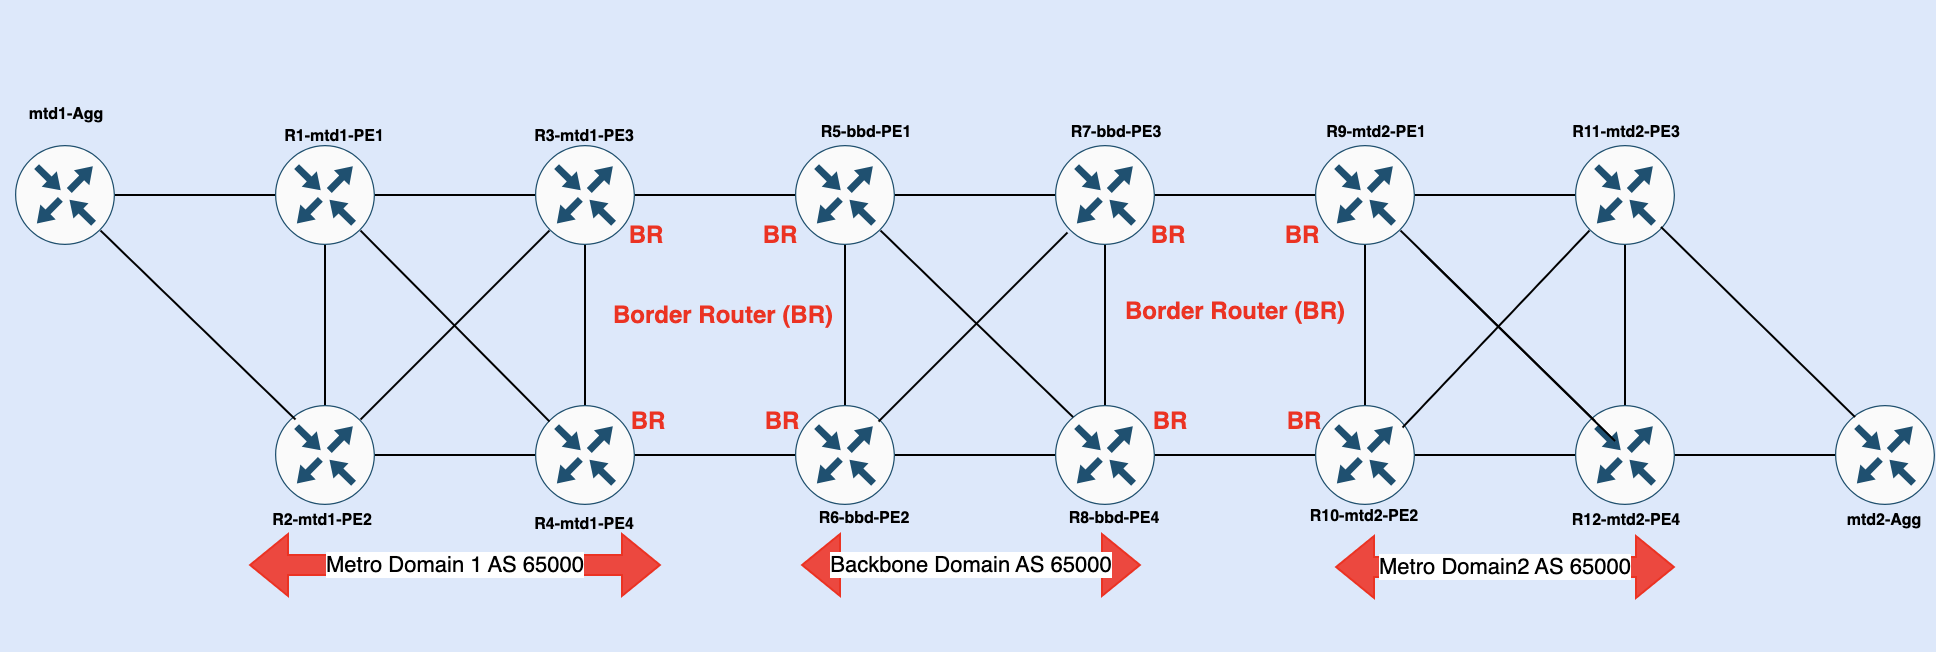
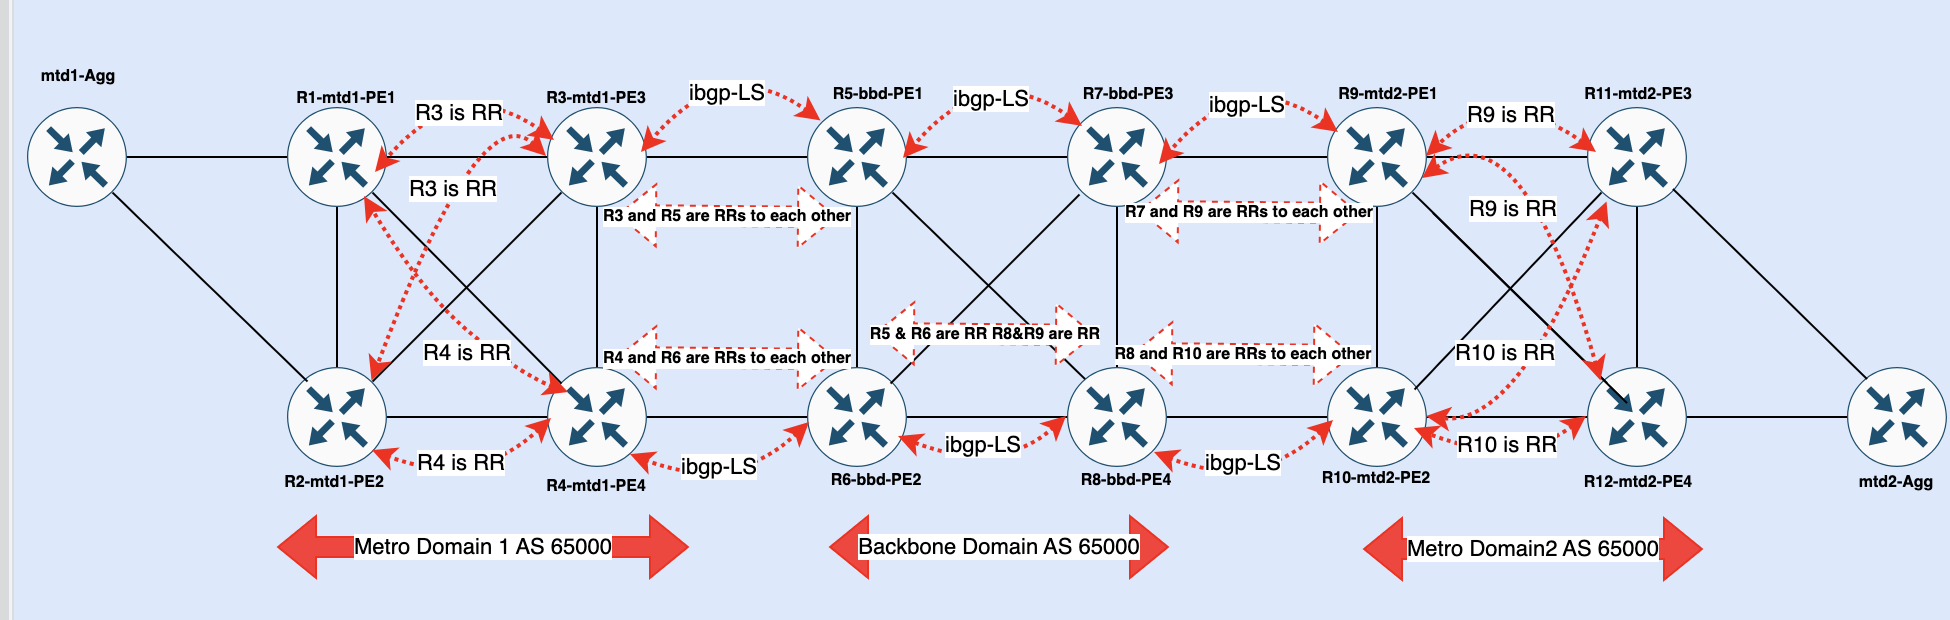
commit

diff --git a/README.md b/README.md
@@ -8,3 +8,8 @@ In this write up , I will explain , in Junos how to set up RSVP-TE LSPs across m
 ![TED](./images/ted.png)
 
 Above diagram explains this whole operation in chronological order , IGP populates TED and ls dist.0 routing table is populated information from TED using import policy , once ls dist.0 routing is populated then that information is exported into BGP-LS , which also receives TED from peer router and that information is placed into ls dist.0 from where it is exported to TED. Once TED is populated from across domain information then REVP-TE has required information to build the across domain traffic engineered LSPs.
+
+Lab configurations are difficult to assimilate without understanding lab topology so lets understand out lab topology.
+![physical_topology](.images/physical_topology.png)
+
+We have 3 domains (metro domain 1 (mtd1), backbone domain (bbd) and metro domain2 (mtd2), all domains have same autonomous-system (AS) i.e 65000. These domains are connected via Border Router (BR) using iBGP-LS.  Within these domains RSVP is configured as mpls signaling protocol and each domain has its own iBGP and Route Reflector (RR) for that domain. 
